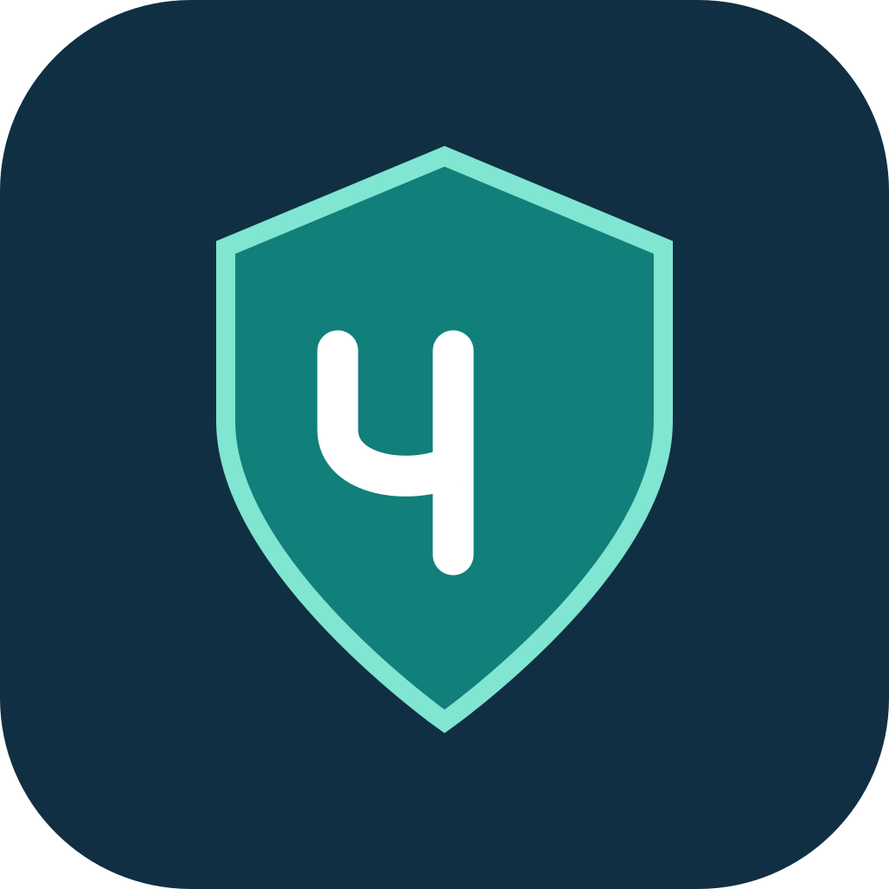
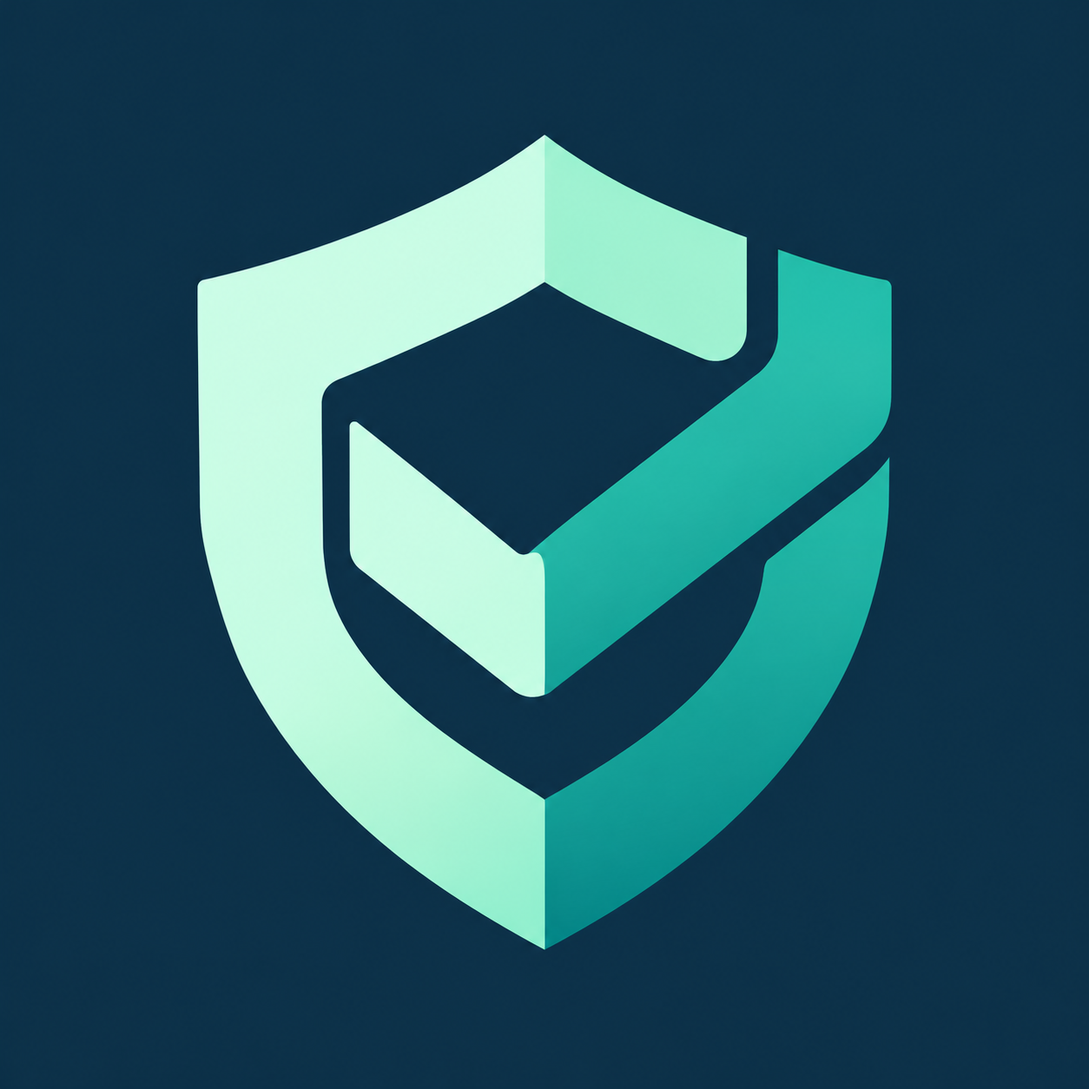
Изменено авторизация мобильного приложения на хостинге, иконка и профиль

diff --git a/mobile/App.tsx b/mobile/App.tsx
@@ -10,7 +10,7 @@ import { AudioModule, RecordingPresets, setAudioModeAsync, useAudioRecorder, use
 import { Provider, useApp } from './src/state';
 import type { EventType, Row, Session } from './src/core/types';
 import { preserveFile } from './src/platform/files';
-import { Badge, Button, Card, colors, Empty, Fade, Field, Heading, Icon, Label, Progress, s } from './src/ui/components';
+import { Avatar, BrandMark, Badge, Button, Card, colors, Empty, Fade, Field, Heading, Icon, Label, Progress, s } from './src/ui/components';
 type Page = 'home'|'shifts'|'shift'|'patrols'|'patrol'|'incident'|'sync'|'profile'|'qr'|'policy'|'explain'|'incidents'|'incident-detail';
 const severityNames:Record<string,string>={LOW:'Низкая',MEDIUM:'Обычная',HIGH:'Высокая',CRITICAL:'Критическая'};
 const fileStates:Record<string,string>={CLEAN:'Проверено',PENDING_SCAN:'Ожидает проверки',INFECTED:'Заблокировано'};
@@ -25,7 +25,7 @@ function Workspace() {
   const scroll = useRef<ScrollView>(null);
   function go(next: Page,row?: Row) { if (row) setSelected(row); setPage(next); scroll.current?.scrollTo({y:0,animated:false}); }
   useEffect(() => { const sub = BackHandler.addEventListener('hardwareBackPress',() => { if (page !== 'home') { setPage('home'); return true; } return false; }); return () => sub.remove(); },[page]);
-  if (!app.ready) return <SafeAreaView style={styles.loading}><Icon name="shield" size={52} color={colors.teal}/><Heading>ЧОППРО</Heading><ActivityIndicator color={colors.teal}/></SafeAreaView>;
+  if (!app.ready) return <SafeAreaView style={styles.loading}><BrandMark size={76}/><Heading>ЧОППРО</Heading><ActivityIndicator color={colors.teal}/></SafeAreaView>;
   if (!app.api?.session) return <Login/>;
   const snapshot = app.snapshot;
   if (!snapshot) return <SafeAreaView style={styles.loading}><Heading>Подключение к организации</Heading><Label muted>{app.message || 'Получаем ваши смены и инструкции'}</Label><Button onPress={() => void app.sync()} loading={app.syncing}>Повторить</Button><Button secondary onPress={() => void app.logout()}>Выйти</Button></SafeAreaView>;
@@ -50,7 +50,7 @@ function Workspace() {
   else if (page==='policy') content=<Policy enqueue={enqueue}/>;
   else if (page==='explain') content=<Explanation attendance={selected!} enqueue={enqueue} onDone={()=>go('sync')}/>;
   else content=<Scanner request={scan!} onDone={()=>go(scan?.type==='CHECKPOINT_SCAN'?'patrols':'shift',scan?.assignment)} enqueue={enqueue}/>;
-  return <SafeAreaView style={styles.shell}><StatusBar style="light"/><View style={styles.header}><Pressable accessibilityRole="button" accessibilityLabel="Главная" onPress={()=>go('home')} style={s.row}><Icon name="shield" size={29} color="#6FE0CC"/><View><Text style={styles.brand}>ЧОППРО</Text><Text style={styles.org}>{snapshot.tenant?.name}</Text></View></Pressable><Pressable accessibilityRole="button" onPress={()=>go('sync')} style={styles.connection}><View style={[styles.dot,{backgroundColor:app.online?'#6FE0CC':'#FFC86F'}]}/><Text style={styles.connectionText}>{app.syncing?'Синхронизация':app.online?'На связи':'Без сети'}{pending?' · '+pending:''}</Text></Pressable></View>
+  return <SafeAreaView style={styles.shell}><StatusBar style="light"/><View style={styles.header}><Pressable accessibilityRole="button" accessibilityLabel="Главная" onPress={()=>go('home')} style={s.row}><BrandMark size={36}/><View><Text style={styles.brand}>ЧОППРО</Text><Text style={styles.org}>{snapshot.tenant?.name}</Text></View></Pressable><Pressable accessibilityRole="button" onPress={()=>go('sync')} style={styles.connection}><View style={[styles.dot,{backgroundColor:app.online?'#6FE0CC':'#FFC86F'}]}/><Text style={styles.connectionText}>{app.syncing?'Синхронизация':app.online?'На связи':'Без сети'}{pending?' · '+pending:''}</Text></Pressable></View>
   {!snapshot.policy_acknowledged && snapshot.policy && page!=='policy' && <Pressable accessibilityRole="button" onPress={()=>go('policy')} style={styles.notice}><Icon name="file" color={colors.amber}/><Text style={{flex:1,color:colors.amber,fontSize:14}}>Ознакомьтесь с правилами работы и обработки данных</Text><Icon name="arrow" size={18} color={colors.amber}/></Pressable>}
   {app.message && <Pressable onPress={()=>go('sync')} style={styles.notice}><Text style={{color:colors.amber,flex:1,fontSize:13}}>{app.message}</Text></Pressable>}
   <KeyboardAvoidingView behavior={Platform.OS==='ios'?'padding':undefined} style={{flex:1}}><ScrollView ref={scroll} contentContainerStyle={styles.content} keyboardShouldPersistTaps="handled" refreshControl={<RefreshControl refreshing={app.syncing} onRefresh={()=>void app.sync()} tintColor={colors.teal}/>}>{!['home','shifts','patrols','sync','profile'].includes(page)&&<Pressable accessibilityRole="button" onPress={()=>go('home')} style={[s.row,{marginBottom:18}]}><Icon name="back"/><Label>На главную</Label></Pressable>}<Fade key={page}>{content}</Fade></ScrollView></KeyboardAvoidingView>
@@ -61,7 +61,7 @@ function Login() {
   async function submit() { setBusy(true);setError('');try { const client=await app.configure(url); if(!challenge){ const result=await client.request('/v1/auth/otp/request','POST',{phone}); if(!result) throw new Error('Повторите подключение'); setChallenge(result); } else { await app.login(await client.request('/v1/auth/otp/verify','POST',{challenge_id:challenge.challenge_id,code}) as Session); } } catch(error){setError((error as Error).message);}finally{setBusy(false);} }
   
   useEffect(()=>{setUrl(app.endpoint);},[app.endpoint]);
-  return <SafeAreaView style={{flex:1,backgroundColor:colors.bg}}><StatusBar style="dark"/><KeyboardAvoidingView behavior={Platform.OS==='ios'?'padding':undefined} style={{flex:1}}><ScrollView contentContainerStyle={styles.login} keyboardShouldPersistTaps="handled"><View style={styles.loginBrand}><Icon name="shield" size={52} color={colors.teal}/><Text style={{fontSize:35,fontWeight:'800',color:colors.navy}}>ЧОППРО</Text><Label muted>Ваш рабочий день — под контролем</Label></View><Card><Heading small>{challenge?'Подтвердите вход':'Вход сотрудника'}</Heading>{error&&<View style={s.error}><Text style={s.errorText}>{error}</Text></View>}{!challenge&&<><Field label="Адрес портала" value={url} onChange={setUrl} keyboardType="url" placeholder="https://ваш-портал.ru" testID="server-url"/><Field label="Номер телефона" value={phone} onChange={setPhone} keyboardType="phone-pad" placeholder="+7 900 000-00-00" testID="phone"/></>}{challenge&&<><Label muted>Введите код для номера {phone}</Label><Field label="Код подтверждения" value={code} onChange={setCode} keyboardType="number-pad" placeholder="6 цифр" testID="otp"/>{challenge.demo_code&&<View style={{backgroundColor:colors.pale,padding:13,borderRadius:12}}><Label>Тестовый код: {challenge.demo_code}</Label><Button secondary onPress={()=>setCode(String(challenge.demo_code))}>Подставить код</Button></View>}</>}<Button onPress={()=>void submit()} loading={busy} disabled={challenge?code.length!==6:phone.replace(/\D/g,'').length<10||!url} testID="login-submit">{challenge?'Войти':'Получить код'}</Button>{challenge&&<Button secondary onPress={()=>{setChallenge(null);setCode('');}}>Изменить номер</Button>}{!challenge&&<Button secondary onPress={()=>setPhone('+79000000007')}>Демонстрационный сотрудник</Button>}<Text style={s.caption}>В рабочей системе код доставляется выбранным организацией сервисом. В демо используется тестовый код.</Text></Card></ScrollView></KeyboardAvoidingView></SafeAreaView>;
+  return <SafeAreaView style={{flex:1,backgroundColor:colors.bg}}><StatusBar style="dark"/><KeyboardAvoidingView behavior={Platform.OS==='ios'?'padding':undefined} style={{flex:1}}><ScrollView contentContainerStyle={styles.login} keyboardShouldPersistTaps="handled"><View style={styles.loginBrand}><BrandMark size={76}/><Text style={{fontSize:35,fontWeight:'800',color:colors.navy}}>ЧОППРО</Text><Label muted>Ваш рабочий день — под контролем</Label></View><Card><Heading small>{challenge?'Подтвердите вход':'Вход сотрудника'}</Heading>{error&&<View style={s.error}><Text style={s.errorText}>{error}</Text></View>}{!challenge&&<><Field label="Адрес портала" value={url} onChange={setUrl} keyboardType="url" placeholder="https://ваш-портал.ru" testID="server-url"/><Field label="Номер телефона" value={phone} onChange={setPhone} keyboardType="phone-pad" placeholder="+7 900 000-00-00" testID="phone"/></>}{challenge&&<><Label muted>Введите код для номера {phone}</Label><Field label="Код подтверждения" value={code} onChange={setCode} keyboardType="number-pad" placeholder="6 цифр" testID="otp"/>{challenge.demo_code&&<View style={{backgroundColor:colors.pale,padding:13,borderRadius:12}}><Label>Тестовый код: {challenge.demo_code}</Label><Button secondary onPress={()=>setCode(String(challenge.demo_code))}>Подставить код</Button></View>}</>}<Button onPress={()=>void submit()} loading={busy} disabled={challenge?code.length!==6:phone.replace(/\D/g,'').length<10||!url} testID="login-submit">{challenge?'Войти':'Получить код'}</Button>{challenge&&<Button secondary onPress={()=>{setChallenge(null);setCode('');}}>Изменить номер</Button>}{!challenge&&<Button secondary onPress={()=>setPhone('+79000000007')}>Демонстрационный сотрудник</Button>}<Text style={s.caption}>В рабочей системе код доставляется выбранным организацией сервисом. В демо используется тестовый код.</Text></Card></ScrollView></KeyboardAvoidingView></SafeAreaView>;
 }
 function Home({go}: {go:(page:Page,row?:Row)=>void}) {
   const {snapshot,events}=useApp(); const data=snapshot!; const now=Date.now(); const upcoming=data.assignments.filter(row=>new Date(row.ends_at.replace(' ','T')+'Z').getTime()>now); const current=upcoming.find(row=>new Date(row.starts_at.replace(' ','T')+'Z').getTime()<=now)??upcoming[0]; const pending=events.filter(event=>event.state!=='SYNCED').length;
@@ -93,7 +93,7 @@ function Journal({go}: {go:(page:Page,row?:Row)=>void}) {const app=useApp();cons
 function MyIncidents({go}:{go:(page:Page,row?:Row)=>void}){const {snapshot,events}=useApp();const [q,setQ]=useState(''),[filter,setFilter]=useState('all');const rows=snapshot!.incidents.filter(r=>(filter==='all'||filter==='open'&&r.status!=='RESOLVED'&&r.status!=='CLOSED'||filter==='resolved'&&['RESOLVED','CLOSED'].includes(r.status))&&`${r.name} ${r.description} ${r.facility_name??''}`.toLowerCase().includes(q.toLowerCase()));const waiting=events.filter(e=>e.type==='INCIDENT_CREATE'&&e.state!=='SYNCED');return <><Heading>Мои происшествия</Heading><Field label="Поиск происшествия" value={q} onChange={setQ} placeholder="Название, описание или объект"/><View style={styles.filters}>{[['all','Все'],['open','В работе'],['resolved','Решённые']].map(([id,label])=><Pressable key={id} onPress={()=>setFilter(id!)} style={[styles.filter,filter===id&&{backgroundColor:colors.teal}]}><Text style={{color:filter===id?colors.white:colors.ink}}>{label}</Text></Pressable>)}</View>{waiting.map(e=><Card key={e.id} onPress={()=>go('sync')}><Heading small>{e.payload.name}</Heading><Badge tone="amber">{states[e.state]}</Badge><Label muted>{date(e.client_time)}</Label></Card>)}{rows.map(r=><Card key={r.id} onPress={()=>go('incident-detail',r)} accent><View style={s.between}><Badge tone={r.severity==='CRITICAL'?'red':r.severity==='HIGH'?'amber':'teal'}>{severityNames[r.severity]??'Важность'}</Badge><Badge tone={['RESOLVED','CLOSED'].includes(r.status)?'teal':'amber'}>{states[r.status]??'На рассмотрении'}</Badge></View><Heading small>{r.name}</Heading><Label muted>{r.facility_name}</Label><Label>{r.description.length>140?r.description.slice(0,140)+'…':r.description}</Label><Label muted>{date(r.client_time)}</Label></Card>)}{!rows.length&&!waiting.length&&<Empty icon="alert" title="Происшествий пока нет" text="После отправки вы сможете следить здесь за рассмотрением."/>}</>;}
 function IncidentDetail({row,enqueue}:{row:Row;enqueue:(type:EventType,payload:Row)=>Promise<void>}){const app=useApp();const [text,setText]=useState(''),[measures,setMeasures]=useState(''),[busy,setBusy]=useState(false);async function amend(){setBusy(true);try{await enqueue('INCIDENT_AMEND',{incident_id:row.id,description:text.trim(),measures:measures.trim()});setText('');setMeasures('');}catch{}finally{setBusy(false);}}return <><Heading>{row.name}</Heading><Badge tone={['RESOLVED','CLOSED'].includes(row.status)?'teal':'amber'}>{states[row.status]??'На рассмотрении'}</Badge><Card><Label muted>{row.facility_name} · {date(row.client_time)}</Label><Heading small>Описание</Heading><Label>{row.description}</Label><Heading small>Принятые меры</Heading><Label>{row.measures||'Пока не указаны'}</Label></Card>{row.updates?.length>0&&<Card><Heading small>Дополнения</Heading>{row.updates.map((u:Row)=><View key={u.id} style={{gap:5,marginVertical:8}}><Label muted>{date(u.client_time)}</Label><Label>{u.description}</Label>{u.measures&&<Label>Принятые меры: {u.measures}</Label>}</View>)}</Card>}<Card><Heading small>Материалы</Heading>{(row.files??[]).map((f:Row)=><View key={f.id} style={{gap:5,marginVertical:7}}><Label>{f.name}</Label><Badge tone={f.scan_status==='CLEAN'?'teal':f.scan_status==='INFECTED'?'red':'amber'}>{fileStates[f.scan_status]??'Проверяется'}</Badge>{f.scan_status==='CLEAN'&&<Button secondary icon="file" onPress={()=>void app.openFile(f).catch(e=>notify('Файл недоступен',e.message))}>Открыть материал</Button>}</View>)}{!row.files?.length&&<Label muted>Материалы не приложены.</Label>}</Card>{!['RESOLVED','CLOSED'].includes(row.status)&&<Card><Heading small>Дополнить сообщение</Heading><Field label="Новые обстоятельства" value={text} onChange={setText} multiline/><Field label="Дополнительные меры" value={measures} onChange={setMeasures} multiline/><Button loading={busy} disabled={text.trim().length<10} onPress={()=>void amend()}>Сохранить дополнение</Button><Label muted>Первоначальное сообщение останется в истории.</Label></Card>}</>;}
 
-function Profile({go}: {go:(page:Page,row?:Row)=>void}) {const app=useApp();const pending=app.events.filter(row=>row.state!=='SYNCED').length;return <><Heading>Ваш профиль</Heading><Card><View style={s.row}><View style={styles.quickIcon}><Icon name="user" color={colors.teal}/></View><View style={{flex:1}}><Heading small>{app.snapshot!.user.name}</Heading><Label muted>{app.snapshot!.tenant.name}</Label></View></View><Badge>Охранник</Badge><Label muted>{app.snapshot!.user.phone}</Label></Card><Card><Heading small>Данные и правила</Heading><Label>Местоположение фиксируется при отметках смены и контрольных точек. Непрерывное отслеживание не используется.</Label><Button secondary icon="file" onPress={()=>go('policy')}>Порядок обработки данных</Button><Label muted>Срок хранения серверных данных — 3 года по правилам категории.</Label></Card><Button secondary icon="sync" onPress={()=>go('sync')}>Открыть журнал отправки</Button><Button danger icon="logout" onPress={()=>confirm('Выйти из приложения?',pending?'Есть неотправленные действия. Они останутся зашифрованными на устройстве и смогут отправиться после входа в этот же аккаунт.':'Локальная сессия будет закрыта.',()=>void app.logout())}>Выйти</Button></>;}
+function Profile({go}: {go:(page:Page,row?:Row)=>void}) {const app=useApp();const pending=app.events.filter(row=>row.state!=='SYNCED').length;return <><Heading>Ваш профиль</Heading><Card><View style={s.row}><Avatar name={app.snapshot!.user.name}/><View style={{flex:1}}><Heading small>{app.snapshot!.user.name}</Heading><Label muted>{app.snapshot!.tenant.name}</Label></View></View><Badge>Охранник</Badge><Label muted>{app.snapshot!.user.phone}</Label></Card><Card><Heading small>Данные и правила</Heading><Label>Местоположение фиксируется при отметках смены и контрольных точек. Непрерывное отслеживание не используется.</Label><Button secondary icon="file" onPress={()=>go('policy')}>Порядок обработки данных</Button><Label muted>Срок хранения серверных данных — 3 года по правилам категории.</Label></Card><Button secondary icon="sync" onPress={()=>go('sync')}>Открыть журнал отправки</Button><Button danger icon="logout" onPress={()=>confirm('Выйти из приложения?',pending?'Есть неотправленные действия. Они останутся зашифрованными на устройстве и смогут отправиться после входа в этот же аккаунт.':'Локальная сессия будет закрыта.',()=>void app.logout())}>Выйти</Button></>;}
 function Policy({enqueue}: {enqueue:(type:EventType,payload:Row)=>Promise<void>}) {const {snapshot,events}=useApp();const policy=snapshot!.policy;return <><Heading>Правила работы</Heading>{policy?<Card><Heading small>{policy.name}</Heading><Badge>Версия {policy.revision}</Badge><Label muted>{policy.basis}</Label><Label>{policy.text}</Label>{snapshot!.policy_acknowledged||events.some(event=>event.type==='POLICY_ACK'&&event.payload.policy_id===policy.id&&event.state!=='BLOCKED')?<Badge>Ознакомление сохранено</Badge>:<Button icon="check" onPress={()=>void enqueue('POLICY_ACK',{policy_id:policy.id}).catch(()=>{})}>С правилами ознакомлен</Button>}</Card>:<Empty title="Правила еще не опубликованы" text="Ответственный организации должен опубликовать порядок обработки данных." icon="file"/>}</>;}
 function Explanation({attendance,enqueue,onDone}: {attendance:Row;enqueue:(type:EventType,payload:Row)=>Promise<void>;onDone:()=>void}) {const [reason,setReason]=useState(''),[busy,setBusy]=useState(false);async function save(){setBusy(true);try{await enqueue('ATTENDANCE_EXPLAIN',{attendance_id:attendance.id,reason:reason.trim()});onDone();}catch{}finally{setBusy(false);}}return <><Heading>Объяснение к отметке</Heading><Card><Label>{attendance.name} · {date(attendance.client_time)}</Label><Badge tone="amber">{states[attendance.status]}</Badge>{attendance.reasons?.length>0&&<Label muted>{attendance.reasons.join('. ')}</Label>}<Field label="Ваше объяснение" value={reason} onChange={setReason} multiline placeholder="Опишите обстоятельства и причину отклонения"/><Button loading={busy} disabled={reason.trim().length<10} onPress={()=>void save()}>Передать руководителю</Button><Label muted>Исходная отметка сохранится. Решение принимает руководитель.</Label></Card></>;}
 

diff --git a/mobile/tests/api.test.ts b/mobile/tests/api.test.ts
@@ -1,0 +1,29 @@
+import test from 'node:test';
+import assert from 'node:assert/strict';
+import { Api, ApiError } from '../src/core/api';
+import type { Session } from '../src/core/types';
+const session: Session = {access_token:'test-access',refresh_token:'test-refresh',expires_in:900,user:{id:'guard'},csrf:'csrf'};
+test('Native authentication survives a proxy that removes Authorization',async()=>{
+  const original=globalThis.fetch;
+  const api=new Api('https://m20.system404-design.ru/demo-api.php',true,async()=>{});await api.use(session);
+  globalThis.fetch=async(url,init)=>{const headers=init!.headers as Record<string,string>;assert.equal(headers.Authorization,'Bearer test-access');assert.equal(headers['X-Choppro-Authorization'],headers.Authorization);assert.equal(headers['X-Choppro-Client'],'native');assert.equal(init!.credentials,'omit');assert.equal(new URL(String(url)).searchParams.get('path'),'/v1/mobile/snapshot');return Response.json({assignments:[]});};
+  try{assert.deepEqual(await api.request('/v1/mobile/snapshot'),{assignments:[]});}finally{globalThis.fetch=original;}
+});
+test('Browser requests use their normal authentication transport',async()=>{
+  const original=globalThis.fetch;const api=new Api('https://example.ru/demo-api.php',false,async()=>{});await api.use(session);
+  globalThis.fetch=async(_url,init)=>{assert.equal((init!.headers as Record<string,string>)['X-Choppro-Authorization'],undefined);assert.equal(init!.credentials,'include');return Response.json({ok:true});};
+  try{await api.request('/v1/mobile/snapshot');}finally{globalThis.fetch=original;}
+});
+test('A renewed session is used in both native headers when replaying a request',async()=>{
+  const original=globalThis.fetch;let calls=0;const saved:Session[]=[];const api=new Api('https://example.ru/demo-api.php',true,async value=>{if(value)saved.push(value);});await api.use(session);
+  globalThis.fetch=async(url,init)=>{calls++;const path=new URL(String(url)).searchParams.get('path');if(calls===1)return Response.json({code:'SESSION_EXPIRED',message:'Сессия истекла'},{status:401});if(path==='/v1/auth/refresh'){assert.equal(JSON.parse(String(init!.body)).refresh_token,'test-refresh');return Response.json({...session,access_token:'renewed',refresh_token:'rotated'});}assert.equal((init!.headers as Record<string,string>)['X-Choppro-Authorization'],'Bearer renewed');assert.equal((init!.headers as Record<string,string>).Authorization,'Bearer renewed');return Response.json({ok:true});};
+  try{assert.deepEqual(await api.request('/v1/mobile/snapshot'),{ok:true});assert.equal(calls,3);assert.equal(saved.at(-1)?.refresh_token,'rotated');}finally{globalThis.fetch=original;}
+});
+test('An HTML response cannot be treated as a successful login',async()=>{
+  const original=globalThis.fetch;const api=new Api('https://example.ru/demo-api.php',true,async()=>{});globalThis.fetch=async()=>new Response('<h1>Ошибка</h1>',{status:200});
+  try{await assert.rejects(api.request('/v1/auth/otp/request','POST',{phone:'+79000000007'}),error=>error instanceof ApiError&&error.code==='INVALID_RESPONSE');await assert.rejects(api.use({} as Session),error=>error instanceof ApiError&&error.code==='INVALID_SESSION');assert.equal(api.session,null);}finally{globalThis.fetch=original;}
+});
+test('A failed connection does not falsely claim that a login was saved',async()=>{
+  const original=globalThis.fetch;const api=new Api('https://example.ru/demo-api.php',true,async()=>{});globalThis.fetch=async()=>{throw new Error('offline');};
+  try{await assert.rejects(api.request('/v1/auth/otp/request','POST',{}),error=>error instanceof ApiError&&error.code==='NETWORK'&&!error.message.includes('сохранена'));}finally{globalThis.fetch=original;}
+});

diff --git a/mobile/src/ui/components.tsx b/mobile/src/ui/components.tsx
@@ -1,10 +1,12 @@
 import React, { useEffect, useRef } from 'react';
-import { AccessibilityInfo, ActivityIndicator, Animated, Pressable, StyleSheet, Text, TextInput, View } from 'react-native';
+import { AccessibilityInfo, ActivityIndicator, Animated, Image, Pressable, StyleSheet, Text, TextInput, View } from 'react-native';
 import Svg, { Path, Circle, Polyline, Rect } from 'react-native-svg';
 export const colors = {ink:'#142938',muted:'#687C88',navy:'#102F43',teal:'#117F7A',pale:'#E9F5F2',bg:'#F3F6F7',line:'#DFE7EB',white:'#FFFFFF',red:'#B73A47',amber:'#9F660E'};
 const paths: Record<string,string> = {
   shield:'M12 3 4 6v6c0 5 8 9 8 9s8-4 8-9V6z',calendar:'M4 5h16v16H4z M8 3v4 M16 3v4 M4 10h16',qr:'M3 3h6v6H3z M15 3h6v6h-6z M3 15h6v6H3z M15 15h3v3h3v3h-6z',route:'M6 6h12v6H6v6h12 M3 6h1 M20 18h1',alert:'M12 3 2 21h20z M12 9v5 M12 17v1',sync:'M20 7a8 8 0 0 0-14-2 L3 8 M3 3v5h5 M4 17a8 8 0 0 0 14 2l3-3 M21 21v-5h-5',user:'M4 21v-3a8 8 0 0 1 16 0v3 M12 12a4 4 0 1 0 0-8 4 4 0 0 0 0 8',map:'M9 3 3 5v16l6-2 6 2 6-2V3l-6 2z M9 3v16 M15 5v16',arrow:'M5 12h14 M13 6l6 6-6 6',back:'M19 12H5 M11 6l-6 6 6 6',check:'M4 12l5 5L20 6',file:'M5 3h9l5 5v13H5z M14 3v6h5 M9 13h6 M9 17h6',camera:'M3 7h5l2-3h4l2 3h5v14H3z M12 17a4 4 0 1 0 0-8 4 4 0 0 0 0 8',mic:'M9 3h6v10H9z M5 10v3a7 7 0 0 0 14 0v-3 M12 20v3 M8 23h8',search:'M10 17a7 7 0 1 0 0-14 7 7 0 0 0 0 14 M15 15l6 6',clock:'M12 3a9 9 0 1 0 0 18 9 9 0 0 0 0-18 M12 7v5l4 2',logout:'M9 3H3v18h6 M8 12h13 M17 8l4 4-4 4',point:'M12 22s8-8 8-13a8 8 0 1 0-16 0c0 5 8 13 8 13 M12 12a3 3 0 1 0 0-6 3 3 0 0 0 0 6'};
 export function Icon({name,size=22,color=colors.ink}: {name:string;size?:number;color?:string}) { return <Svg width={size} height={size} viewBox="0 0 24 24" fill="none" stroke={color} strokeWidth={1.7} strokeLinecap="round" strokeLinejoin="round"><Path d={paths[name] ?? paths.file}/></Svg>; }
+export function BrandMark({size=64}: {size?:number}) { return <Image source={require('../../assets/icon.png')} accessibilityLabel="ЧОППРО" style={{width:size,height:size,borderRadius:size*.24}}/>; }
+export function Avatar({name,size=62}: {name:string;size?:number}) { const initials=String(name||'Сотрудник').trim().split(/\s+/).slice(0,2).map(part=>part[0]).join('').toLocaleUpperCase('ru-RU');return <View accessibilityLabel={'Профиль: '+name} style={{width:size,height:size,borderRadius:size/2,backgroundColor:colors.navy,alignItems:'center',justifyContent:'center',borderWidth:3,borderColor:'#CDEBE4'}}><Text style={{fontSize:size*.3,fontWeight:'800',letterSpacing:1,color:'#B2F0DF'}}>{initials}</Text></View>; }
 export function Label({children,muted=false}: {children:React.ReactNode;muted?:boolean}) { return <Text style={[s.label,muted && {color:colors.muted}]}>{children}</Text>; }
 export function Heading({children,small=false}: {children:React.ReactNode;small?:boolean}) { return <Text style={[s.heading,small && {fontSize:20}]}>{children}</Text>; }
 export function Field({label,value,onChange,placeholder='',multiline=false,keyboardType='default',testID,secure=false}: {label:string;value:string;onChange:(value:string)=>void;placeholder?:string;multiline?:boolean;keyboardType?:'default'|'phone-pad'|'number-pad'|'url'|'email-address';testID?:string;secure?:boolean}) { return <View style={s.field}><Text style={s.fieldLabel}>{label}</Text><TextInput accessibilityLabel={label} testID={testID} style={[s.input,multiline && {height:120,textAlignVertical:'top'}]} value={value} onChangeText={onChange} placeholder={placeholder} placeholderTextColor={colors.muted} multiline={multiline} keyboardType={keyboardType} secureTextEntry={secure} autoCapitalize="none" autoCorrect={false}/></View>; }

diff --git a/mobile/src/core/api.ts b/mobile/src/core/api.ts
@@ -18,21 +18,27 @@ export class Api {
     if (!this.native && !this.csrf && method !== 'GET') this.csrf = String((await this.request('/v1/csrf')).csrf ?? '');
     const controller = new AbortController(); const timeout = setTimeout(() => controller.abort(), body instanceof FormData ? 45000 : 20000);
     const headers: Record<string,string> = { Accept: 'application/json', 'X-Choppro-Client': this.native ? 'native' : 'web' };
-    if (this.session) headers.Authorization = 'Bearer ' + this.session.access_token;
+    if (this.session) {
+      headers.Authorization = 'Bearer ' + this.session.access_token;
+      if (this.native) headers['X-Choppro-Authorization'] = headers.Authorization;
+    }
     if (this.csrf) headers['X-CSRF-Token'] = this.csrf;
     if (body && !(body instanceof FormData)) headers['Content-Type'] = 'application/json';
     let response: Response;
     try { response = await fetch(this.endpoint + (this.endpoint.includes('?') ? '&' : '?') + 'space=mobile&path=' + encodeURIComponent(path), { method, headers, credentials: this.native ? 'omit' : 'include', body: body ? body instanceof FormData ? body : JSON.stringify(body) : undefined, signal: controller.signal }); }
-    catch { throw new ApiError(0,'NETWORK','Нет связи с сервером. Запись сохранена на устройстве.'); }
+    catch { throw new ApiError(0,'NETWORK',controller.signal.aborted?'Портал долго не отвечает. Попробуйте ещё раз.':'Не удалось связаться с порталом. Проверьте интернет и адрес сервера.'); }
     finally { clearTimeout(timeout); }
-    const data = await response.json().catch(() => ({ message: 'Сервер вернул некорректный ответ' })) as Row;
+    const data = await response.json().catch(() => { throw new ApiError(response.status,'INVALID_RESPONSE','Портал вернул некорректный ответ. Проверьте адрес сервера.'); }) as Row;
     if (response.status === 401 && this.session && replay && path !== '/v1/auth/refresh') {
       await this.refresh(); return this.request(path, method, body, false);
     }
     if (!response.ok) throw new ApiError(response.status, String(data.code ?? 'ERROR'), String(data.message ?? 'Не удалось выполнить действие'));
     return data;
   }
-  async use(session: Session): Promise<void> { this.session = session; this.csrf = session.csrf ?? ''; await this.save(session); }
+  async use(session: Session): Promise<void> {
+    if (!session?.access_token || !session.refresh_token || !session.user?.id) throw new ApiError(502,'INVALID_SESSION','Не удалось подтвердить вход. Запросите новый код.');
+    this.session = session; this.csrf = session.csrf ?? ''; await this.save(session);
+  }
   async refresh(): Promise<void> {
     if (this.refreshing) return this.refreshing;
     this.refreshing = (async () => {

diff --git a/mobile/app.config.ts b/mobile/app.config.ts
@@ -1,11 +1,11 @@
 import type { ExpoConfig } from 'expo/config';
 const config: ExpoConfig = {
-  name: 'ЧОППРО', slug: 'choppro', version: '3.0.0', scheme: 'choppro', orientation: 'portrait',
+  name: 'ЧОППРО', slug: 'choppro', version: '3.0.1', scheme: 'choppro', orientation: 'portrait',
   icon: './assets/icon.png', userInterfaceStyle: 'light',
   ios: { bundleIdentifier: 'ru.choppro.guard', supportsTablet: true, infoPlist: { NSCameraUsageDescription: 'Камера нужна для QR-кодов и фотографий происшествий.', NSLocationWhenInUseUsageDescription: 'Местоположение фиксируется только при отметке смены или контрольной точки.', NSMicrophoneUsageDescription: 'Микрофон нужен для записи объяснения происшествия.', NSAppTransportSecurity: { NSAllowsArbitraryLoads: process.env.CHOPPRO_ALLOW_HTTP === '1' } } },
-  android: { package: 'ru.choppro.guard', versionCode: 30000, permissions: ['CAMERA', 'ACCESS_COARSE_LOCATION', 'ACCESS_FINE_LOCATION', 'RECORD_AUDIO'], blockedPermissions: ['ACCESS_BACKGROUND_LOCATION'] },
+  android: { package: 'ru.choppro.guard', versionCode: 30001, permissions: ['CAMERA', 'ACCESS_COARSE_LOCATION', 'ACCESS_FINE_LOCATION', 'RECORD_AUDIO'], blockedPermissions: ['ACCESS_BACKGROUND_LOCATION'] },
   plugins: [ ['./plugins/network.cjs', { allowHttp: process.env.CHOPPRO_ALLOW_HTTP === '1' }], ['expo-camera', { cameraPermission: 'Разрешить сканирование QR и съемку происшествий?', recordAudioAndroid: false }], ['expo-location', { locationWhenInUsePermission: 'Разрешить определение местоположения при рабочих действиях?' }], ['expo-image-picker', { photosPermission: 'Разрешить выбрать фотографию происшествия?', cameraPermission: 'Разрешить съемку фотографии происшествия?', microphonePermission: false }], ['expo-audio', { microphonePermission: 'Разрешить записать аудио происшествия?' }], ['expo-sqlite', { useSQLCipher: true }], 'expo-secure-store', 'expo-document-picker', 'expo-sharing', 'expo-status-bar' ],
   web: { bundler: 'metro', output: 'single', favicon: './assets/icon.png' },
-  extra: { apiUrl: process.env.EXPO_PUBLIC_API_URL ?? '', integrations: false }
+  extra: { apiUrl: process.env.EXPO_PUBLIC_API_URL ?? 'https://m20.system404-design.ru/', integrations: false }
 };
 export default config;

diff --git a/mobile/src/platform/files.ts b/mobile/src/platform/files.ts
@@ -18,5 +18,5 @@ export async function appendFile(form: FormData,file: Row): Promise<()=>Promise<
 export async function removeFile(_uri: string): Promise<void> {}
 export async function downloadFile(url:string,token:string,name:string,mime:string):Promise<void>{
   const path=FS.cacheDirectory+'view-'+Crypto.randomUUID()+'.'+(name.split('.').pop()??'bin').replace(/[^a-z0-9]/gi,'');
-  try{const result=await FS.downloadAsync(url,path,{headers:{Authorization:'Bearer '+token,'X-Choppro-Client':'native'}});if(result.status!==200)throw new Error('Файл недоступен. Обновите данные и повторите.');if(!await Sharing.isAvailableAsync())throw new Error('На устройстве недоступен просмотр файла');await Sharing.shareAsync(path,{mimeType:mime,dialogTitle:name});}finally{await FS.deleteAsync(path,{idempotent:true});}
+  try{const result=await FS.downloadAsync(url,path,{headers:{Authorization:'Bearer '+token,'X-Choppro-Authorization':'Bearer '+token,'X-Choppro-Client':'native'}});if(result.status!==200)throw new Error('Файл недоступен. Обновите данные и повторите.');if(!await Sharing.isAvailableAsync())throw new Error('На устройстве недоступен просмотр файла');await Sharing.shareAsync(path,{mimeType:mime,dialogTitle:name});}finally{await FS.deleteAsync(path,{idempotent:true});}
 }

diff --git a/mobile/src/state.tsx b/mobile/src/state.tsx
@@ -109,7 +109,7 @@ export function Provider({children}: {children: React.ReactNode}) {
     void (async () => {
       try {const network=await Network.getNetworkStateAsync();onlineRef.current=network.isConnected!==false;setOnline(onlineRef.current);}catch {}
       let savedDevice = await secret.get('device'); if (!savedDevice) { savedDevice = Crypto.randomUUID(); await secret.set('device',savedDevice); } setDevice(savedDevice);
-      const url = await secret.get('endpoint') || String(Constants.expoConfig?.extra?.apiUrl ?? '') || (Platform.OS === 'web' ? location.origin + location.pathname.replace(/\/demo\.php.*$/,'').replace(/\/mobile.*$/,'') : '');
+      const url = await secret.get('endpoint') || (Platform.OS === 'web' ? location.origin + location.pathname.replace(/\/demo\.php.*$/,'').replace(/\/mobile.*$/,'') : String(Constants.expoConfig?.extra?.apiUrl ?? ''));
       if (url) {
         await configure(url);
         const revoke = await secret.get('revocation');

diff --git a/backend/tests/stage34/integration.php b/backend/tests/stage34/integration.php
@@ -10,6 +10,17 @@ $db->pdo->beginTransaction();
 try{
  $facility=$a->find('facilities',Seeder::id('facility-0-0'));$employee=$r->create('employees',['name'=>'Сотрудник мобильной проверки','qualification'=>6,'status'=>'ACTIVE','facility_id'=>$facility['id'],'badge'=>'AT-MOBILE']);$shift=$r->create('shifts',['name'=>'Мобильная смена','post_id'=>Seeder::id('post-0-0'),'starts_at'=>gmdate('c',time()-3600),'ends_at'=>gmdate('c',time()+14400)]);$assignment=$ops->assign(['name'=>'Мобильное назначение','shift_id'=>$shift['id'],'employee_id'=>$employee['id']]);$ops->publish($shift['id']);
  $user=$db->one("SELECT * FROM cp_users WHERE email='guard@obereg.example'");$db->run('UPDATE cp_users SET employee_id=? WHERE id=?',[$employee['id'],$user['id']]);$user['employee_id']=$employee['id'];$ga=new Access($db,$user);$gr=new Resources($ga,$config);$mobile=new Mobile($gr);$snapshot=$mobile->snapshot();check34(in_array($assignment['id'],array_column($snapshot['assignments'],'id'),true),'Published own assignment visible');check34($snapshot['policy']!==null,'Published policy delivered');check34($snapshot['settings']['incident_audio_mb']<=$snapshot['settings']['hosting_upload_mb'],'Actual hosting upload limit reflected on mobile');problem34(fn()=>(new Mobile($r))->snapshot(),'GUARD_ONLY');problem34(fn()=>$ga->find('facilities',Seeder::id('facility-1-0')),'NOT_FOUND');
+ $serverBefore=$_SERVER;$sessionBefore=$_SESSION??[];$_SESSION=[];$auth=new Auth($db,$config);$nativeSession=$auth->issue($user);
+ try{
+  unset($_SERVER['HTTP_AUTHORIZATION'],$_SERVER['REDIRECT_HTTP_AUTHORIZATION'],$_SERVER['HTTP_ORIGIN']);$_SERVER['HTTP_X_CHOPPRO_CLIENT']='native';$_SERVER['HTTP_X_CHOPPRO_AUTHORIZATION']='Bearer '.$nativeSession['access_token'];
+  check34($auth->user()['id']===$user['id'],'Native token authenticates without browser cookies or Authorization');$auth->csrf();check34(true,'Native write authenticates on shared hosting');
+  $_SERVER['HTTP_X_CHOPPRO_AUTHORIZATION']='Bearer forged';problem34(fn()=>$auth->user(),'SESSION_EXPIRED');$_SERVER['HTTP_X_CHOPPRO_AUTHORIZATION']='Bearer '.$nativeSession['access_token'];
+  $_SERVER['HTTP_ORIGIN']='https://unrelated.example';problem34(fn()=>$auth->user(),'AUTH_REQUIRED');problem34(fn()=>$auth->csrf(),'CSRF');unset($_SERVER['HTTP_ORIGIN']);
+  $_SERVER['HTTP_AUTHORIZATION']='Bearer forged';problem34(fn()=>$auth->user(),'SESSION_EXPIRED');unset($_SERVER['HTTP_AUTHORIZATION']);
+  $_SERVER['HTTP_X_CHOPPRO_CLIENT']='web';problem34(fn()=>$auth->user(),'AUTH_REQUIRED');
+  $_SERVER['REDIRECT_HTTP_AUTHORIZATION']='Bearer '.$nativeSession['access_token'];check34($auth->user()['id']===$user['id'],'Apache redirected Authorization preserved');unset($_SERVER['REDIRECT_HTTP_AUTHORIZATION']);
+  $_SERVER['HTTP_X_CHOPPRO_CLIENT']='native';$renewed=$auth->refresh(['refresh_token'=>$nativeSession['refresh_token']]);problem34(fn()=>$auth->user(),'SESSION_EXPIRED');$_SERVER['HTTP_X_CHOPPRO_AUTHORIZATION']='Bearer '.$renewed['access_token'];$auth->logout($auth->user());problem34(fn()=>$auth->user(),'SESSION_EXPIRED');
+ }finally{$_SERVER=$serverBefore;$_SESSION=$sessionBefore;}
  $clock=time()-120;$event=fn($type,$payload,$key=null,$timestamp=null)=>['id'=>$key??Support::uuid(),'type'=>$type,'payload'=>$payload,'device_id'=>'mobile-test-device','client_time'=>gmdate('c',$timestamp??$clock)];
  problem34(fn()=>$mobile->event($event('ASSIGNMENT_CONFIRM',['assignment_id'=>$assignment['id'],'accept'=>true])),'POLICY_ACK_REQUIRED');
  $policy=$event('POLICY_ACK',['policy_id'=>$snapshot['policy']['id']]);$p=$mobile->event($policy);check34($p['ok']===true,'Policy acknowledged');check34($mobile->event($policy)===$p,'Policy retry idempotent');$changed=$policy;$changed['payload']['policy_id']='missing';problem34(fn()=>$mobile->event($changed),'IDEMPOTENCY_CONFLICT');

diff --git a/tools/mobile_android_smoke.py b/tools/mobile_android_smoke.py
@@ -1,0 +1,43 @@
+import pathlib,re,subprocess,time,xml.etree.ElementTree as ET
+
+output=pathlib.Path('dist');output.mkdir(exist_ok=True)
+def adb(*args):
+ return subprocess.check_output(['adb',*args],timeout=35).decode(errors='replace')
+def nodes():
+ adb('shell','uiautomator','dump','/sdcard/choppro-ui.xml')
+ return list(ET.fromstring(adb('exec-out','cat','/sdcard/choppro-ui.xml')).iter('node'))
+def wait(text=None,resource=None,timeout=90):
+ deadline=time.monotonic()+timeout
+ while time.monotonic()<deadline:
+  try:
+   current=nodes()
+   for node in current:
+    if (text is None or node.get('text')==text or node.get('content-desc')==text) and (resource is None or node.get('resource-id','').endswith(resource)):return node
+  except (subprocess.SubprocessError,ET.ParseError):pass
+  time.sleep(1)
+ raise RuntimeError('Экран или элемент не появился: '+str(text or resource))
+def tap(text=None,resource=None):
+ node=wait(text,resource);bounds=[int(v) for v in re.findall(r'\d+',node.get('bounds',''))]
+ if len(bounds)!=4:raise RuntimeError('Элемент не имеет координат: '+str(text or resource))
+ adb('shell','input','tap',str((bounds[0]+bounds[2])//2),str((bounds[1]+bounds[3])//2))
+def screenshot(name):
+ (output/name).write_bytes(subprocess.check_output(['adb','exec-out','screencap','-p'],timeout=35))
+try:
+ wait('Вход сотрудника');address=wait(resource='server-url').get('text','');assert 'https://m20.system404-design.ru/' in address,'Адрес портала заполнен'
+ screenshot('CHOPPRO_Android_login.png');tap('Демонстрационный сотрудник');tap(resource='login-submit');wait('Подставить код')
+ tap(resource='otp');adb('shell','input','text','000000');adb('shell','input','keyevent','4');tap(resource='login-submit');wait('Неверный код')
+ tap('Подставить код');tap(resource='login-submit');wait('Ваш рабочий день',timeout=150);wait('На связи');screenshot('CHOPPRO_Android_home.png')
+ tap('Смены');wait('Ваши смены');screenshot('CHOPPRO_Android_shifts.png')
+ tap('Обходы');wait('Обходы объектов');screenshot('CHOPPRO_Android_patrols.png')
+ tap('Журнал');wait('Журнал отправки');screenshot('CHOPPRO_Android_journal.png')
+ tap('Профиль');wait('Ваш профиль');screenshot('CHOPPRO_Android_profile.png')
+ adb('shell','am','force-stop','ru.choppro.guard');adb('shell','am','start','-W','-n','ru.choppro.guard/.MainActivity');wait('Ваш рабочий день',timeout=150);wait('На связи');screenshot('CHOPPRO_Android_reopened.png')
+ tap('Профиль');tap('Выйти');tap('Продолжить');wait('Вход сотрудника');screenshot('CHOPPRO_Android_screen.png')
+ print('PASS standalone APK: prefilled live portal, invalid OTP rejection, successful native login, shifts, patrols, journal, profile, encrypted storage and session across restart, logout')
+except Exception:
+ screenshot('CHOPPRO_Android_failure.png')
+ try:
+  visible=[n.get('text') or n.get('content-desc') for n in nodes() if n.get('text') or n.get('content-desc')]
+  print('Состояние экрана:',re.sub(r'\b\d{6,}\b','[скрыто]',str(visible)))
+ except Exception:pass
+ raise

diff --git a/backend/src/Stage2/Auth.php b/backend/src/Stage2/Auth.php
@@ -20,16 +20,22 @@ final class Auth
         $this->db->run('INSERT INTO cp_rate_limits(rate_key,attempts,resets_at) VALUES(?,1,?) ON DUPLICATE KEY UPDATE attempts=IF(resets_at<UTC_TIMESTAMP(),1,attempts+1),resets_at=IF(resets_at<UTC_TIMESTAMP(),VALUES(resets_at),resets_at)',[$key,gmdate('Y-m-d H:i:s',time()+$seconds)]);
         if((int)$this->db->scalar('SELECT attempts FROM cp_rate_limits WHERE rate_key=?',[$key])>$maximum)throw new Problem(429,'RATE_LIMIT','Слишком много попыток. Повторите позже.');
     }
+    public static function bearerToken(): ?string
+    {
+        $header=trim((string)($_SERVER['HTTP_AUTHORIZATION']??''));if($header==='')$header=trim((string)($_SERVER['REDIRECT_HTTP_AUTHORIZATION']??''));
+        if($header===''&&($_SERVER['HTTP_X_CHOPPRO_CLIENT']??'')==='native'&&empty($_SERVER['HTTP_ORIGIN']))$header=trim((string)($_SERVER['HTTP_X_CHOPPRO_AUTHORIZATION']??''));
+        return preg_match('~^Bearer[ \t]+([^\s]+)$~iD',$header,$match)?$match[1]:null;
+    }
     public function user(): array
     {
-        $header=$_SERVER['HTTP_AUTHORIZATION']??''; $token=str_starts_with($header,'Bearer ')?substr($header,7):($_SESSION['access_token']??'');
+        $token=self::bearerToken()??($_SESSION['access_token']??'');
         if(!$token)throw new Problem(401,'AUTH_REQUIRED','Войдите в систему');
         $row=$this->db->one("SELECT u.*,s.id session_id FROM cp_sessions s JOIN cp_users u ON u.id=s.user_id LEFT JOIN cp_tenants t ON t.id=u.tenant_id WHERE s.access_hash=? AND s.revoked_at IS NULL AND s.expires_at>UTC_TIMESTAMP() AND u.status='ACTIVE' AND u.deleted_at IS NULL AND (u.tenant_id IS NULL OR (t.status='ACTIVE' AND t.deleted_at IS NULL))",[hash('sha256',$token)]);
         if(!$row)throw new Problem(401,'SESSION_EXPIRED','Сессия истекла или доступ отозван'); return $row;
     }
     public function csrf(): void
     {
-        if(str_starts_with($_SERVER['HTTP_AUTHORIZATION']??'','Bearer '))return;
+        if(self::bearerToken()!==null)return;
         $path=$_GET['path']??'';
         if(($_SERVER['HTTP_X_CHOPPRO_CLIENT']??'')==='native'&&empty($_SERVER['HTTP_COOKIE'])&&empty($_SERVER['HTTP_ORIGIN'])&&str_contains($_SERVER['CONTENT_TYPE']??'','application/json')&&in_array($path,['/v1/auth/otp/request','/v1/auth/otp/verify','/v1/auth/refresh'],true))return;
         if(!hash_equals($_SESSION['csrf']??'',$_SERVER['HTTP_X_CSRF_TOKEN']??($_POST['csrf']??'')))throw new Problem(403,'CSRF','Обновите страницу и повторите действие');

diff --git a/tools/package_mobile.py b/tools/package_mobile.py
@@ -9,5 +9,5 @@ with zipfile.ZipFile(out,'w',zipfile.ZIP_DEFLATED,compresslevel=6) as archive:
   if path.suffix in ['.keystore','.jks','.p12','.mobileprovision','.log'] and path.name!='debug.keystore':continue
   if path.name.startswith('.env') or path.name in ['local.properties','.xcode.env.local']:continue
   archive.write(path,'CHOPPRO/'+path.relative_to(root).as_posix())
- archive.writestr('CHOPPRO/source-version.json',json.dumps({'commit':a.sha,'platform':a.platform,'version':'3.0.0','integrations':False},ensure_ascii=False,indent=2))
+ archive.writestr('CHOPPRO/source-version.json',json.dumps({'commit':a.sha,'platform':a.platform,'version':json.loads((root/'package.json').read_text())['version'],'integrations':False},ensure_ascii=False,indent=2))
 print(json.dumps({'platform':a.platform,'archive':str(out),'bytes':out.stat().st_size}))
